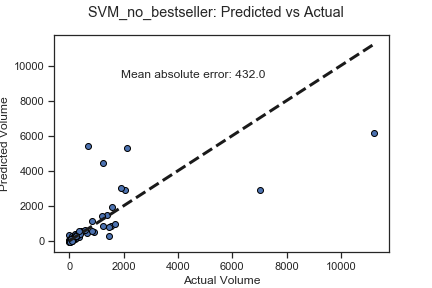
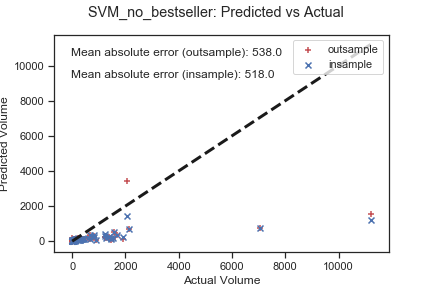
Better prediction plots and lm tuning start

diff --git a/notebooks/reports/1.0_model_exploration.py b/notebooks/reports/1.0_model_exploration.py
@@ -63,7 +63,7 @@ pipelines.append(
         make_pipeline(
             SimpleImputer(missing_values=np.nan, strategy="mean"),
             preprocessing.StandardScaler(),
-            LinearSVR(random_state=seed),
+            LinearSVR(C=4, random_state=seed),
         ),
     )
 )
@@ -105,7 +105,7 @@ pipelines.append(
         make_pipeline(
             IterativeImputer(ExtraTreesRegressor(n_estimators=10, random_state=0)),
             preprocessing.StandardScaler(),
-            LinearSVR(random_state=seed),
+            LinearSVR(C=4, random_state=seed),
         ),
     )
 )
@@ -148,7 +148,7 @@ pipelines.append(
         make_pipeline(
             IterativeImputer(BayesianRidge()),
             preprocessing.StandardScaler(),
-            LinearSVR(random_state=seed),
+            LinearSVR(C=4, random_state=seed),
         ),
     )
 )
@@ -226,11 +226,12 @@ X_no_bestseller = X.drop(columns="bestseller_rank")
 
 pipelines = []
 
-# BayesianRidge
 pipelines.append(
     (
         "SVM_no_bestseller",
-        make_pipeline(preprocessing.StandardScaler(), LinearSVR(random_state=seed)),
+        make_pipeline(
+            preprocessing.StandardScaler(), LinearSVR(C=4, random_state=seed)
+        ),
     )
 )
 pipelines.append(
@@ -257,14 +258,14 @@ pipelines.append(
 
 #%%
 
-plot_cv_scores(
-    pipelines=pipelines,
-    X=X_no_bestseller,
-    y=y,
-    crossvalidation=crossvalidation,
-    scoring=scoring,
-    file_suffix="unoptimized",
-)
+# plot_cv_scores(
+#     pipelines=pipelines,
+#     X=X_no_bestseller,
+#     y=y,
+#     crossvalidation=crossvalidation,
+#     scoring=scoring,
+#     file_suffix="unoptimized",
+# )
 
 plot_cv_predictions(
     pipelines=pipelines,
@@ -274,18 +275,10 @@ plot_cv_predictions(
     file_suffix="unoptimized",
 )
 
-# for KNN and Linear models dropping the variable lowers the crossvalidation error,
-# but for random forest imputation makes the model better with bayesridge being
-# the best imputation method
+# For all models dropping the variable results in lower out of sample
+# prediction error
 
-#%%
-
-# It seems that SVM does not really like the values product category values
-# with these values the models performs dismally, but without them it at least
-# somewhat okay. I think that it would still be wise to drop this model
-# from futher consideration, as the performance is still not good
-
-# TODO no the problem is lack of iterations! No its the C!
+# Checking if dropping the product category also results in better results
 
 X_no_cat_no_bestseller = X.drop(
     columns=[
@@ -305,17 +298,35 @@ X_no_cat_no_bestseller = X.drop(
     ]
 )
 
-
 pipelines = []
 
-# BayesianRidge
 pipelines.append(
     (
         "SVM_no_cat_no_bestseller",
         make_pipeline(
-            preprocessing.StandardScaler(),
-            LinearSVR(C=8, max_iter=5000, random_state=seed),
+            preprocessing.StandardScaler(), LinearSVR(C=4, random_state=seed)
         ),
+    )
+)
+pipelines.append(
+    (
+        "RF_no_cat_no_bestseller",
+        make_pipeline(
+            preprocessing.StandardScaler(),
+            RandomForestRegressor(n_estimators=100, random_state=seed),
+        ),
+    )
+)
+pipelines.append(
+    (
+        "KNN_no_cat_no_bestseller",
+        make_pipeline(preprocessing.StandardScaler(), KNeighborsRegressor()),
+    )
+)
+pipelines.append(
+    (
+        "LM_no_cat_no_bestseller",
+        make_pipeline(preprocessing.StandardScaler(), LinearRegression()),
     )
 )
 
@@ -338,8 +349,90 @@ plot_cv_predictions(
     file_suffix="unoptimized",
 )
 
-# for KNN and Linear models dropping the variable lowers the crossvalidation error,
-# but for random forest imputation makes the model better with bayesridge being
-# the best imputation method
+# Dropping the product category makes all the models perform better
+#%%
+
+# Checking if dropping 3 and 1 star reviews helps. There features are highly correlated with
+# 4 and 2 star reviews respectively, but have a smaller correlation with volume
+
+X_no_cat_no_bestseller_less_stars = X.drop(
+    columns=[
+        "bestseller_rank",
+        "product_type_Accessories",
+        "product_type_Display",
+        "product_type_ExtendedWarranty",
+        "product_type_GameConsole",
+        "product_type_Laptop",
+        "product_type_Netbook",
+        "product_type_PC",
+        "product_type_Printer",
+        "product_type_PrinterSupplies",
+        "product_type_Smartphone",
+        "product_type_Software",
+        "product_type_Tablet",
+        "rew_3star",
+        "rew_1star",
+    ]
+)
+
+pipelines = []
+
+pipelines.append(
+    (
+        "SVM_no_cat_no_bestseller_less_stars",
+        make_pipeline(
+            preprocessing.StandardScaler(), LinearSVR(C=4, random_state=seed)
+        ),
+    )
+)
+pipelines.append(
+    (
+        "RF_no_cat_no_bestseller_less_stars",
+        make_pipeline(
+            preprocessing.StandardScaler(),
+            RandomForestRegressor(n_estimators=100, random_state=seed),
+        ),
+    )
+)
+pipelines.append(
+    (
+        "KNN_no_cat_no_bestseller_less_stars",
+        make_pipeline(preprocessing.StandardScaler(), KNeighborsRegressor()),
+    )
+)
+pipelines.append(
+    (
+        "LM_no_cat_no_bestseller_less_stars",
+        make_pipeline(preprocessing.StandardScaler(), LinearRegression()),
+    )
+)
 
 #%%
+
+plot_cv_scores(
+    pipelines=pipelines,
+    X=X_no_cat_no_bestseller_less_stars,
+    y=y,
+    crossvalidation=crossvalidation,
+    scoring=scoring,
+    file_suffix="unoptimized",
+)
+
+plot_cv_predictions(
+    pipelines=pipelines,
+    X=X_no_cat_no_bestseller_less_stars,
+    y=y,
+    crossvalidation=crossvalidation,
+    file_suffix="unoptimized",
+)
+
+# Dropping the start makes all models except knn perform better.
+
+#%%
+
+# On the basis of this explorations we decide to do the following things
+
+# 1. Dropping futher testing of KNN and SVM models as these perform baddly. Continuing
+# to more precise testing with RF and LM
+# 2. We need to use some feature selection algoritm to as dropping features seems to create
+# a lot of value

diff --git a/src/visualization/visualize.py b/src/visualization/visualize.py
@@ -76,6 +76,7 @@ def plot_cv_scores(pipelines, X, y, crossvalidation, scoring, file_suffix=""):
         plot_title = (
             "model_comparison_" + file_suffix + "_" + score_method.lower() + ".png"
         )
+        plt.xticks(rotation=90)
         plt.savefig(os.path.join(path_figures, plot_title), dpi=200)
         plt.show()
         plt.clf()
@@ -97,20 +98,36 @@ def plot_cv_predictions(pipelines, X, y, crossvalidation, file_suffix=""):
     path_figures = os.path.join("reports", "figures")
 
     for name, pipeline in pipelines:
-        predicted = cross_val_predict(pipeline, X, y, cv=crossvalidation)
+        predicted_outsample = cross_val_predict(pipeline, X, y, cv=crossvalidation)
+        predicted_insample = pipeline.fit(X, y).predict(X)
         fig, ax = plt.subplots()
-        ax.scatter(y, predicted, edgecolors=(0, 0, 0))
+        ax.scatter(y, predicted_outsample, c="r", marker="+", label="outsample")
+        ax.scatter(y, predicted_insample, c="b", marker="x", label="insample")
         ax.plot([y.min(), y.max()], [y.min(), y.max()], "k--", lw=3)
-        fig.suptitle(name + ": " + "Predicted vs Actual")
-        ax.set_xlabel("Actual Volume")
-        ax.set_ylabel("Predicted Volume")
-        model_mean_absolute_error = round(metrics.mean_absolute_error(y, predicted))
+        model_mean_absolute_error_outsample = round(
+            metrics.mean_absolute_error(y, predicted_outsample)
+        )
+        model_mean_absolute_error_insample = round(
+            metrics.mean_absolute_error(y, predicted_insample)
+        )
         plt.text(
-            0.2,
-            0.8,
-            "Mean absolute error: " + str(model_mean_absolute_error),
+            0.05,
+            0.9,
+            "Mean absolute error (outsample): "
+            + str(model_mean_absolute_error_outsample),
             transform=ax.transAxes,
         )
+        plt.text(
+            0.05,
+            0.8,
+            "Mean absolute error (insample): "
+            + str(model_mean_absolute_error_insample),
+            transform=ax.transAxes,
+        )
+        ax.set_xlabel("Actual Volume")
+        ax.set_ylabel("Predicted Volume")
+        plt.legend(loc=4)
+        fig.suptitle(name + ": " + "Predicted vs Actual")
         plot_title = "predictions_" + file_suffix + "_" + name.lower() + ".png"
         plt.savefig(os.path.join(path_figures, plot_title))
         plt.show()

diff --git a/notebooks/reports/1.0_lm_tuning.py b/notebooks/reports/1.0_lm_tuning.py
@@ -1,0 +1,50 @@
+#%%
+
+# Importing libraries
+import pandas as pd
+import numpy as np
+import sklearn
+import matplotlib.pyplot as plt
+import seaborn as sns
+import os
+from dotenv import find_dotenv, load_dotenv
+from IPython.core.interactiveshell import InteractiveShell
+
+from sklearn.linear_model import LinearRegression
+from sklearn.linear_model import ElasticNet
+
+from sklearn import preprocessing
+from sklearn.model_selection import cross_val_score
+from sklearn.model_selection import KFold
+
+from sklearn.pipeline import make_pipeline
+from src.visualization.visualize import plot_cv_scores
+from src.visualization.visualize import plot_cv_predictions
+
+# Setting styles
+# %matplotlib inline
+sns.set(style="ticks", color_codes=True)
+InteractiveShell.ast_node_interactivity = "all"
+
+seed = 42
+
+#%% # Loading the data
+X_train_path = os.path.join("data", "processed", "X_train.csv")
+y_train_path = os.path.join("data", "processed", "y_train.csv")
+X = pd.read_csv(X_train_path)
+y = pd.read_csv(y_train_path, index_col=False)
+y = y.iloc[:, 0]
+
+#%%
+
+# Plotting the volume histogram to see if a transformation could help
+sns.distplot(y, bins=20)
+
+
+#%%
+
+# feature selection affected linear model greatly so lets automate this process
+# by using instead of the normal LinearRegression library lets use ElasticNet
+# that combines L1 and L2 regularization. This works as a kind of automatic feature
+# selection
+
